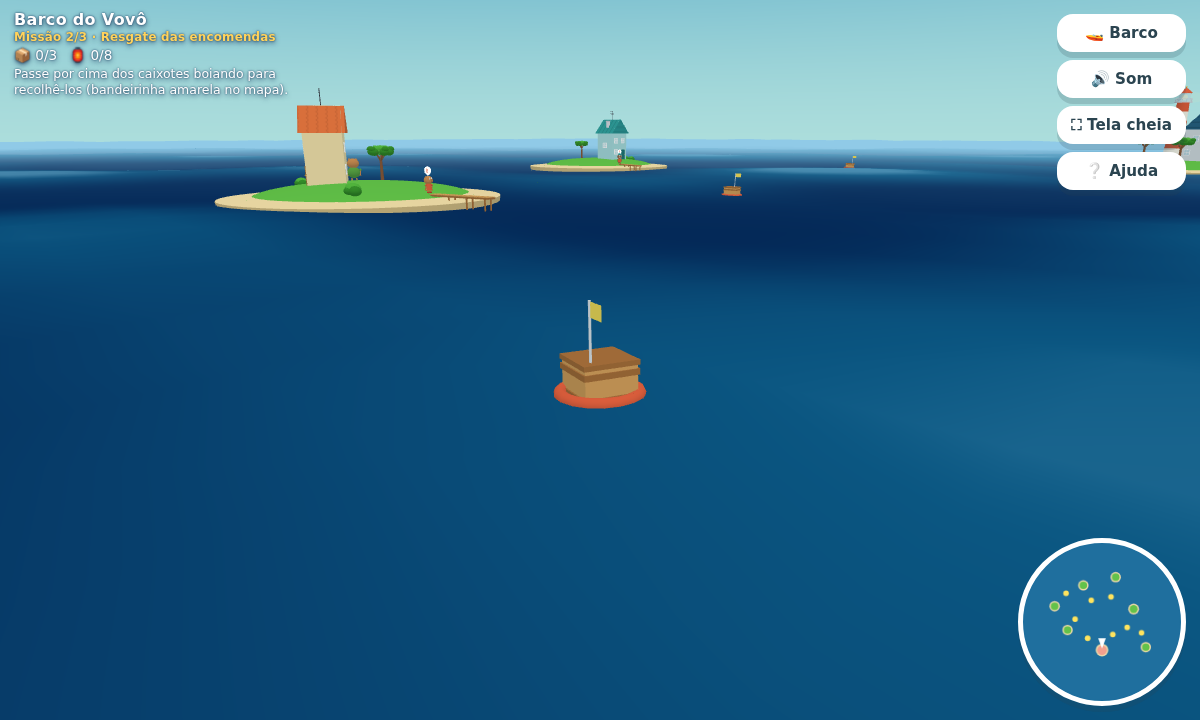
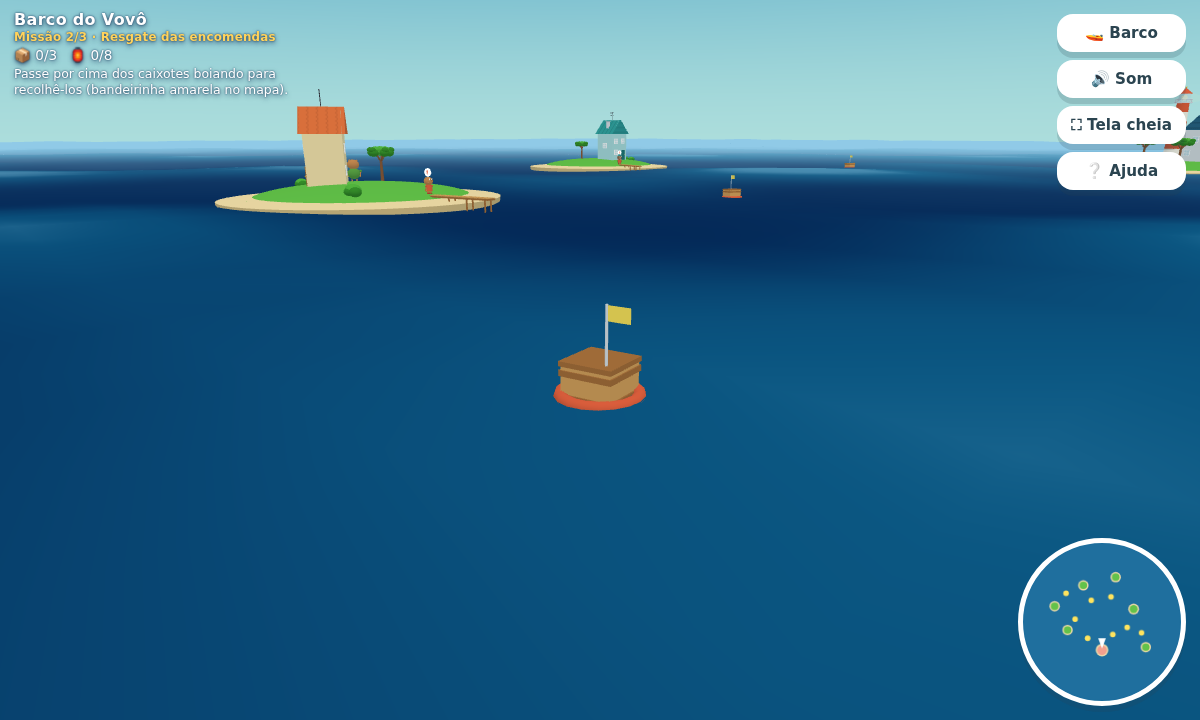
Prende a bandeira ao mastro de verdade, com teste que prova (#5)
O commit anterior dizia corrigir isto e não corrigiu: o script de edição
fazia duas substituições e a primeira não casou — havia uma linha a mais
no meio do bloco procurado. Só a animação mudou; o `flag.position.set(
0.55, 2.1, 0)` continuou lá, e a bandeira seguiu pendurada no ar.

As fotos não pegaram porque a animação nova gira o pano em torno do
mastro: dependendo da fase, ele parece encostado.

- A bandeira ganha um pivô no mastro e o pano se estende para a popa a
  partir dele. Com o pano girado 90° em y a largura passa para z, então
  um deslocamento em x não é meia largura para o lado, e sim distância
  até o poste — era essa a origem do defeito.
- test/playthrough.mjs mede a distância do canto do pano ao eixo do
  mastro e falha acima de 15 cm. Verificado que ele reprova a geometria
  antiga (0,63) e aprova a nova (0,05): teste que não pega o defeito que
  motivou o teste é decoração.

Regressão: 14/14. Prints do README refeitos.

diff --git a/src/boat.js b/src/boat.js
@@ -346,12 +346,19 @@ export class Boat {
       map: flagTexture(),
       side: THREE.DoubleSide,
     });
+    // A bandeira precisa nascer no mastro. Com o pano girado 90° em y, a largura
+    // dele passa para z — então um deslocamento em x não é "meia largura para o
+    // lado", e sim distância até o poste: era isso que a deixava pendurada no ar.
+    // O pivô fica no mastro e o pano se estende para a popa a partir dele.
+    const flagPivot = new THREE.Group();
+    flagPivot.position.set(0, 2.1, 0);
     const flag = new THREE.Mesh(new THREE.PlaneGeometry(1.05, 0.8, 6, 1), flagMaterial);
-    flag.position.set(0.55, 2.1, 0);
     flag.rotation.y = Math.PI / 2;
-    mast.add(flag);
+    flag.position.z = -0.525;
+    flagPivot.add(flag);
+    mast.add(flagPivot);
     this.hullPivot.add(mast);
-    this.flag = flag;
+    this.flag = flagPivot;
 
     // Leme numa coluna, sino, papagaia e guarda-corpo da proa.
     this.hullPivot.add(
